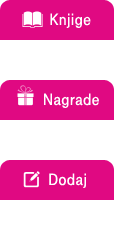
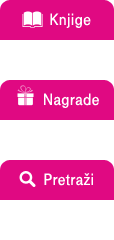
Commit #2
• added view types
• fixed navigation
• fixed icons

Changed region(s): [[0.3684, 0.7, 0.8158, 0.7875], [0.1579, 0.7, 0.3421, 0.7875]]

diff --git a/css/master.css b/css/master.css
@@ -32,34 +32,50 @@ p {font-size:1.1em; line-height:1.4em;}
 #main_menu ul li a.addnew:hover, #main_menu ul li a.addnew.current {background-position:0 -160px;}
 /* top_bar */
 .top_bar {overflow:hidden; height:37px; display:block; background-color:#e00982; line-height:1.4em; position:relative; padding:0 20px; border-radius:10px; -moz-border-radius:10px; -webkit-border-radius:10px; -o-border-radius:10px;}
-#top_bar_info {float:left; display:inline-block; width:50%; position:absolute; top:50%; margin-top:-7px;}
+#top_bar_info {float:left; display:inline-block; width:70%; position:absolute; top:50%; margin-top:-7px;}
 #top_bar_info a, #top_bar_username ul li a {font-weight:bold;}
-#top_bar_info p.not_active {background:url(../images/warning.png) no-repeat; padding-left:20px; height:21px;}
-#top_bar_username {float:right; display:inline-block; width:50%}
+#top_bar_info p.not_active {background:url(../images/warning.png) 0 0 no-repeat; padding-left:20px; height:21px; display:inline-block;}
+#top_bar_info p.not_active.noviewopt {background-position:top left;}
+#top_bar_info p.active {padding-left:0; display:inline-block;}
+#top_bar_info ul {float:left; display:inline-block; margin-right:17px; margin-top:-2px;}
+#top_bar_info ul li {float:left; margin-right:1px;}
+#top_bar_info ul li a {width:25px; height:19px; text-indent:-9999em; overflow:hidden; display:block; background-image:url(../images/list.png); background-repeat:no-repeat;}
+#top_bar_info ul li a.view_detail {background-position:top left;}
+#top_bar_info ul li a.view_detail:hover, #top_bar_info ul li a.view_detail.view_current {background-position:top right;}
+#top_bar_info ul li a.view_list {background-position:bottom left;}
+#top_bar_info ul li a.view_list:hover, #top_bar_info ul li a.view_list.view_current {background-position:bottom right;}
+#top_bar_username {float:right; display:inline-block; width:30%}
 #top_bar_username ul {float:right; position:absolute; top:50%; margin-top:-8px; right:20px; overflow:hidden;}
 #top_bar_username ul li {float:left; margin-left:10px;}
 
-/*/// REVIEWS */
+/*/// REVIEWS DETAiLED */
+.review {margin-bottom:10px;}
 .review, .awards_container, .myprofile {background-color:#eaeaea; padding:20px; border-radius:10px; -moz-border-radius:10px; -webkit-border-radius:10px; -o-border-radius:10px; color:#7d7d7d;}
 .review_top {overflow:hidden;}
 .review_top_left {float:left; width:539px; border-right:1px solid #dddddd; padding-right:20px;}
 .review_top_left img {float:left; margin-right:20px;}
 .review_top_left .review_book_title_rating {overflow:hidden;}
 .review_top_left .review_book_title {float:left;}
-.review_top_left .review_book_title h1 {font-size:2em; color:#e00982; line-height:1.2em; max-width:300px; display:inline-block;}
-.review_top_left .review_book_title h3 {font-size:1.2em; color:#e00982; padding-top:7px;}
+.review_top_left .review_book_title h1 {font-size:2em; color:#7d7d7d; line-height:1.2em; max-width:300px; display:inline-block;}
+.review_top_left .review_book_title h3 {font-size:1.2em; color:#7d7d7d; padding-top:7px;}
 .review_top_left .review_book_rating {float:right;}
 .review_top_left .review_book_review p {font-size:1.2em; padding-top:10px;}
 .review_top_right {float:right;}
 .review_top_right ul {margin-top:10px;}
 .review_top_right ul li {margin-bottom:20px;}
 .review_top_right ul li a {font-size:1.2em; display:inline-block; width:120px; padding:10px 10px 9px 38px; border-radius:10px; -moz-border-radius:10px; -webkit-border-radius:10px; -o-border-radius:10px; position:relative;}
-.review_top_right ul li a span.closed {background:url(../images/icons.png) 0 -84px no-repeat; height:21px; width:20px; display:inline-block; position:absolute; left:12px;top:5px;}
-.review_top_right ul li a span.open {background:url(../images/icons.png) 0 -105px no-repeat; height:21px; width:20px; display:inline-block; position:absolute; left:12px;top:5px;}
-.review_top_right ul li a.viewReview {background-color:#e00982;}
-.review_top_right ul li a.viewReview:hover {background-color:#ba076c; text-decoration:none;}
-.review_top_right ul li a.addReview {background-color:#272727;}
-.review_top_right ul li a.addReview:hover {background-color:#e00982; text-decoration:none;}
+.review_top_right ul li a span.iconView {background:url(../images/icons.png) 0 -84px no-repeat; height:21px; width:20px; display:inline-block; position:absolute; left:12px;top:5px;}
+.review_top_right ul li a span.iconAdd {background:url(../images/icons.png) 0 -105px no-repeat; height:21px; width:20px; display:inline-block; position:absolute; left:12px;top:5px;}
+.review_top_right ul li a.viewReview {background-color:#272727;}
+.review_top_right ul li a.viewReview:hover {background-color:#e00982; text-decoration:none;}
+.review_top_right ul li a.addReview {background-color:#e00982;}
+.review_top_right ul li a.addReview:hover {background-color:#ba076c; text-decoration:none;}
+/*/// REVIEWS LiST */
+.review.list .review_top_left img, .review.list .review_top_left .review_book_review p {display:none;}
+.review.list .review_top_right ul {overflow:hidden; width:140px; margin-top:7px;}
+.review.list .review_top_right ul li {float:left; width:50%; margin-bottom:0;}
+.review.list .review_top_right ul li a {text-indent:-9999em; width:0;}
+
 /* user reviews */
 .review_user_reviews {margin-top:40px;}
 .review_user_reviews h1 {font-size:2em; line-height:1em; margin-bottom:20px;}
@@ -75,8 +91,8 @@ h2.shareTitle {text-transform:uppercase; font-size:1em; color:#bbb; line-height:
 .review_user_review .review_ur_review p {font-family:Georgia, Times, serif; font-size:1.4em; line-height:1.6em; font-style:italic; padding:0 10px 20px 0;}
 /* add new review */
 .review_add_new {overflow:hidden; margin-top:40px; background-color:#ffffff; border-radius:10px; -moz-border-radius:10px; -webkit-border-radius:10px; -o-border-radius:10px; padding:10px;  box-shadow:1px 1px 1px 0 #bbb; -moz-box-shadow:1px 1px 1px 0 #bbb; -webkit-box-shadow:1px 1px 1px 0 #bbb; -o-box-shadow:1px 1px 1px 0 #bbb; margin-bottom:3px;}
-.review_add_new .review_ur_addreview {float:left; display:inline-block; width:430px; background-color:#ffffff; border-radius:0 10px 10px 10px; padding:10px 0;}
-.review_add_new .review_ur_addreview textarea {width:430px; height:130px; padding:20px; font-family:Georgia, Times, serif; font-size:1.4em; line-height:1.4em; color:#7d7d7d; border-color:#dedede; margin-bottom:10px;}
+.review_add_new .review_ur_addreview {float:right; display:inline-block; width:470px; background-color:#ffffff; border-radius:0 10px 10px 10px; padding:10px 0;}
+.review_add_new .review_ur_addreview textarea {width:428px; height:130px; padding:20px; font-family:Georgia, Times, serif; font-size:1.4em; line-height:1.4em; color:#7d7d7d; border-color:#dedede; margin-bottom:10px;}
 .review_add_new .review_ur_addreview input#submitReview {background-color:#e00982; font-family:Georgia, Times, serif; font-size:1.2em; color:#fff; padding:7px 20px; border:0; border-radius:5px; -moz-border-radius:5px; -webkit-border-radius:5px; -o-border-radius:5px; float:right;}
 .review_add_new .review_ur_addreview input#submitReview:hover {background-color:#ba076c; cursor:pointer;}
 
@@ -94,7 +110,7 @@ h2.shareTitle {text-transform:uppercase; font-size:1em; color:#bbb; line-height:
 
 /*/// PROFiLE */
 .myprofile {overflow:hidden;}
-.myprofile p {font-size:1.2em;}
+.myprofile p {font-size:1.2em; margin-top:15px;}
 .myprofileL {float:left; width:180px; overflow:hidden;}
 .myprofileR {float:right; width:550px}
 .myprofile_data {overflow:hidden; margin-top:40px; background-color:#fff; padding:20px; border-radius:10px; -moz-border-radius:10px; -webkit-border-radius:10px; -o-border-radius:10px; color:#7d7d7d;}
@@ -106,6 +122,8 @@ h2.shareTitle {text-transform:uppercase; font-size:1em; color:#bbb; line-height:
 .myprofile_data table input#user_postal, .myprofile_data table input#user_city {width:100%;}
 .myprofile_data input#profile_activate {background-color:#e00982; font-family:Georgia, Times, serif; font-size:1.2em; color:#fff; padding:7px 20px; border:0; border-radius:5px; -moz-border-radius:5px; -webkit-border-radius:5px; -o-border-radius:5px; float:right;}
 .myprofile_data input#profile_activate:hover {background-color:#ba076c; cursor:pointer;}
+/* report box */
+span.report_box {background-color:#ff0000; color:#fff; padding:10px; line-height:2.9em; margin-left:93px;}
 
 /*/// SEARCH */
 #search_bar {margin-bottom:40px; background-color:#e00982; padding:10px; border-radius:5px; -moz-border-radius:5px; -webkit-border-radius:5px; -o-border-radius:5px; box-shadow:inset -1px 1px 1px #fff; -webkit-box-shadow:inset -1px 1px 1px #fff; -moz-box-shadow:inset -1px 1px 1px #fff; -o-box-shadow:inset -1px 1px 1px #fff; position:relative;}
@@ -136,5 +154,5 @@ h2.shareTitle {text-transform:uppercase; font-size:1em; color:#bbb; line-height:
 
 
 /* open / close */
-/*.review_user_reviews, .review_add_new {display:none;}
-*/
+.review_user_reviews, .review_add_new {display:none;}
+

diff --git a/index.html b/index.html
@@ -31,17 +31,22 @@ http://www.fyneworks.com/jquery/star-rating/#tab-Overview -->
 					<ul>
 						<li><a href="index.html" class="reviews current">Recenzije</a></li>
 						<li><a href="awards.html" class="awards">Nagrade</a></li>
-						<li><a href="add_new.html" class="addnew">Dodaj</a></li>
+						<li><a href="search.html" class="addnew">Pretraži</a></li>
 					</ul>
 				</div><!-- /main_menu -->
 			</div><!-- /logo_menu -->
 
 			<div class="top_bar">
 				<div id="top_bar_info">
+					<!-- view -->
+					<ul>
+						<li><a href="#" class="view_detail">detailed</a></li>
+						<li><a href="#" class="view_list view_current">list</a></li>
+					</ul>
 					<!-- ako account nije aktiviran -->
-					<p class="not_active"><a href="profile.html">Aktiviraj svoj račun</a>, <a href="add_new.html">piši recenzije</a> i osvoji <a href="awards.html">vrijedne nagrade</a>!</p>
+					<!-- <p class="not_active"><a href="profile.html">Aktiviraj svoj račun</a>, <a href="search.html">piši recenzije</a> i osvoji <a href="awards.html">vrijedne nagrade</a>!</p> -->
 					<!-- ako je account aktiviran -->
-					<!-- <p><a href="add_new.html">Piši recenzije</a> i osvoji <a href="awards.html">vrijedne nagrade</a>!</p> -->
+					<p class="active"><a href="search.html">Piši recenzije</a> i osvoji <a href="awards.html">vrijedne nagrade</a>!</p>
 				</div><!-- /top_bar_info -->
 				<div id="top_bar_username">
 					<ul>
@@ -54,7 +59,7 @@ http://www.fyneworks.com/jquery/star-rating/#tab-Overview -->
 		
 		<!-- REVIEWS -->
 		<div class="reviews">
-			<div class="review">
+			<div class="review list">
 				<div class="review_top">
 					<div class="review_top_left">
 						<!-- book image -->
@@ -79,8 +84,8 @@ http://www.fyneworks.com/jquery/star-rating/#tab-Overview -->
 					</div><!-- /.review_top_left -->
 					<div class="review_top_right">
 						<ul>
-							<li><a href="#" class="viewReview"><span class="closed"></span>Vidi recenzije</a></li>
-							<li><a href="#" class="addReview"><span class="open"></span>Dodaj novu recenziju</a></li>
+							<li><a href="#" class="viewReview"><span class="iconView"></span>Vidi recenzije</a></li>
+							<li><a href="#" class="addReview"><span class="iconAdd"></span>Dodaj novu recenziju</a></li>
 						</ul>
 					</div><!-- /.review_top_right -->
 				</div><!-- /.review_top -->
@@ -134,6 +139,39 @@ http://www.fyneworks.com/jquery/star-rating/#tab-Overview -->
 				</div><!-- /.review_user_review -->
 
 			</div><!-- /.review -->
+			
+			<div class="review list">
+				<div class="review_top">
+					<div class="review_top_left">
+						<!-- book image -->
+						<img src="http://www.lorempixum.com/84/110/abstract/" width="84" />
+						<div class="review_book">
+							<div class="review_book_title_rating">
+								<div class="review_book_title">
+									<h1>Naslov knjige koji je malo duži</h1>
+									<h3>Autor: <span>Ime Prezime</span></h3>
+								</div><!-- /.review_book_title -->
+								<div class="review_book_rating">
+									<div class="star_rating">
+										<p>&star;&star;&star;&star; <span>4/5</span></p>
+									</div><!-- /.star_rating -->
+									<h3>Broj recenzija: <span>9</span></h3>
+								</div><!-- /.review_book_rating -->
+							</div><!-- /.review_book_title_rating -->
+							<div class="review_book_review">
+								<p>Lorem ipsum dolor sit amet, consectetur adipisicing elit, sed do eiusmod tempor incididunt ut labore et dolore magna aliquaLorem ipsum dolor sit amet, consectetur adipisicing elit, sed do eiusmod tempor incididunt...</p>
+							</div><!-- /.review_book_review -->
+						</div><!-- /.review_book -->
+					</div><!-- /.review_top_left -->
+					<div class="review_top_right">
+						<ul>
+							<li><a href="#" class="viewReview"><span class="iconView"></span>Vidi recenzije</a></li>
+							<li><a href="#" class="addReview"><span class="iconAdd"></span>Dodaj novu recenziju</a></li>
+						</ul>
+					</div><!-- /.review_top_right -->
+				</div><!-- /.review_top -->
+			</div>
+			
 		</div><!-- /.reviews -->
 		
 		<!-- FOOTER -->

diff --git a/search.html b/search.html
@@ -29,17 +29,22 @@
 					<ul>
 						<li><a href="index.html" class="reviews">Recenzije</a></li>
 						<li><a href="awards.html" class="awards">Nagrade</a></li>
-						<li><a href="add_new.html" class="addnew current">Dodaj</a></li>
+						<li><a href="search.html" class="addnew current">Pretraži</a></li>
 					</ul>
 				</div><!-- /main_menu -->
 			</div><!-- /logo_menu -->
 
 			<div class="top_bar">
 				<div id="top_bar_info">
+					<!-- view -->
+					<ul>
+						<li><a href="#" class="view_detail">detailed</a></li>
+						<li><a href="#" class="view_list view_current">list</a></li>
+					</ul>
 					<!-- ako account nije aktiviran -->
-					<p class="not_active"><a href="profile.html">Aktiviraj svoj račun</a>, <a href="add_new.html">piši recenzije</a> i osvoji <a href="awards.html">vrijedne nagrade</a>!</p>
+					<p class="not_active"><a href="profile.html">Aktiviraj svoj račun</a>, <a href="search.html">piši recenzije</a> i osvoji <a href="awards.html">vrijedne nagrade</a>!</p>
 					<!-- ako je account aktiviran -->
-					<!-- <p><a href="add_new.html">Piši recenzije</a> i osvoji <a href="awards.html">vrijedne nagrade</a>!</p> -->
+					<!-- <p><a href="search.html">Piši recenzije</a> i osvoji <a href="awards.html">vrijedne nagrade</a>!</p> -->
 				</div><!-- /top_bar_info -->
 				<div id="top_bar_username">
 					<ul>
@@ -57,7 +62,7 @@
 		
 		<!-- REVIEWS -->
 		<div class="reviews">
-			<div class="review">
+			<div class="review list">
 				<div class="review_top">
 					<div class="review_top_left">
 						<!-- book image -->
@@ -82,8 +87,8 @@
 					</div><!-- /.review_top_left -->
 					<div class="review_top_right">
 						<ul>
-							<li><a href="#" class="viewReview"><span class="closed"></span>Vidi recenzije</a></li>
-							<li><a href="#" class="addReview"><span class="open"></span>Dodaj novu recenziju</a></li>
+							<li><a href="#" class="viewReview"><span class="iconView"></span>Vidi recenzije</a></li>
+							<li><a href="#" class="addReview"><span class="iconAdd"></span>Dodaj novu recenziju</a></li>
 						</ul>
 					</div><!-- /.review_top_right -->
 				</div><!-- /.review_top -->

diff --git a/profile.html b/profile.html
@@ -29,7 +29,7 @@
 					<ul>
 						<li><a href="index.html" class="reviews">Recenzije</a></li>
 						<li><a href="awards.html" class="awards">Nagrade</a></li>
-						<li><a href="add_new.html" class="addnew">Dodaj</a></li>
+						<li><a href="search.html" class="addnew">Pretraži</a></li>
 					</ul>
 				</div><!-- /main_menu -->
 			</div><!-- /logo_menu -->
@@ -37,9 +37,9 @@
 			<div class="top_bar">
 				<div id="top_bar_info">
 					<!-- ako account nije aktiviran -->
-					<p class="not_active"><a href="profile.html">Aktiviraj svoj račun</a>, <a href="add_new.html">piši recenzije</a> i osvoji <a href="awards.html">vrijedne nagrade</a>!</p>
+					<p class="not_active"><a href="profile.html">Aktiviraj svoj račun</a>, <a href="search.html">piši recenzije</a> i osvoji <a href="awards.html">vrijedne nagrade</a>!</p>
 					<!-- ako je account aktiviran -->
-					<!-- <p><a href="add_new.html">Piši recenzije</a> i osvoji <a href="awards.html">vrijedne nagrade</a>!</p> -->
+					<!-- <p><a href="search.html">Piši recenzije</a> i osvoji <a href="awards.html">vrijedne nagrade</a>!</p> -->
 				</div><!-- /top_bar_info -->
 				<div id="top_bar_username">
 					<ul>
@@ -84,7 +84,7 @@
 								<td><input type="text" name="user_city" value="" id="user_city"></td>
 							</tr>
 						</table>
-						<p><input type="submit" value="Aktiviraj" id="profile_activate"></p>
+						<p><span class="report_box">Report box stuff lorem ipsum dolor sit amet consecutor</span="report_box"><input type="submit" value="Aktiviraj" id="profile_activate"></p>
 					</form>
 				</div><!-- /.myprofile_data -->
 			</div><!-- /.myprofileR -->

diff --git a/awards.html b/awards.html
@@ -29,7 +29,7 @@
 					<ul>
 						<li><a href="index.html" class="reviews">Recenzije</a></li>
 						<li><a href="awards.html" class="awards current">Nagrade</a></li>
-						<li><a href="add_new.html" class="addnew">Dodaj</a></li>
+						<li><a href="search.html" class="addnew">Pretraži</a></li>
 					</ul>
 				</div><!-- /main_menu -->
 			</div><!-- /logo_menu -->
@@ -37,9 +37,9 @@
 			<div class="top_bar">
 				<div id="top_bar_info">
 					<!-- ako account nije aktiviran -->
-					<p class="not_active"><a href="profile.html">Aktiviraj svoj račun</a>, <a href="add_new.html">piši recenzije</a> i osvoji <a href="awards.html">vrijedne nagrade</a>!</p>
+					<p class="not_active  noviewopt"><a href="profile.html">Aktiviraj svoj račun</a>, <a href="search.html">piši recenzije</a> i osvoji <a href="awards.html">vrijedne nagrade</a>!</p>
 					<!-- ako je account aktiviran -->
-					<!-- <p><a href="add_new.html">Piši recenzije</a> i osvoji <a href="awards.html">vrijedne nagrade</a>!</p> -->
+					<!-- <p><a href="search.html">Piši recenzije</a> i osvoji <a href="awards.html">vrijedne nagrade</a>!</p> -->
 				</div><!-- /top_bar_info -->
 				<div id="top_bar_username">
 					<ul>
